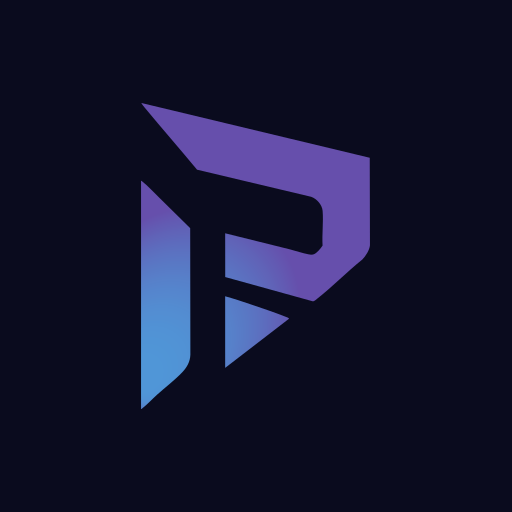
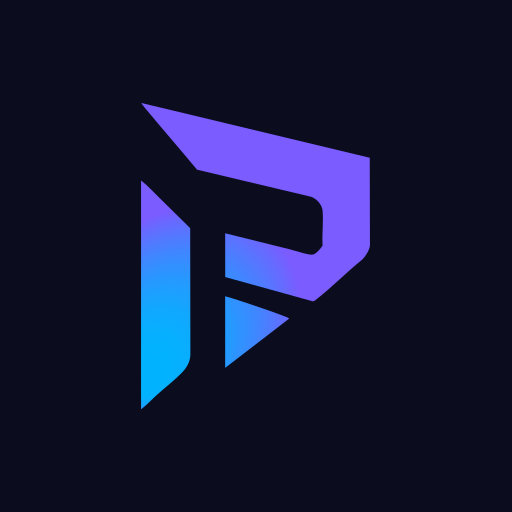
تصحيح ألوان حرف P وأيقونات التطبيق بقيم الهوية للشاشة

Changed region(s): [[0.2812, 0.1875, 0.75, 0.7188], [0.25, 0.3438, 0.375, 0.8125]]

diff --git a/assets/brand/_compare.html b/assets/brand/_compare.html
@@ -1,7 +1,7 @@
 <!doctype html>
 <html lang="ar" dir="rtl"><meta charset="utf-8"><meta name="viewport" content="width=device-width,initial-scale=1"><title>مقارنة هوية بروكي الأصلية والمتجهة</title><style>
-:root{--c-bg:#0A0B1E;--c-surface-1:#12142E;--c-text:#F4F5FF;--c-text-2:#A9ADCF;--c-brand:#7B61FF;--c-border:rgba(255,255,255,.08);--font:Tajawal,system-ui,sans-serif;--sp-2:8px;--sp-4:16px;--sp-6:24px;--r-md:12px}*{box-sizing:border-box}body{margin:0;padding:var(--sp-4);background:var(--c-bg);color:var(--c-text);font:16px/1.7 var(--font)}main{max-width:1120px;margin:auto}h1{font-size:24px}h2{font-size:20px}p{color:var(--c-text-2)}section{margin-block:var(--sp-6);border:1px solid var(--c-border);border-radius:var(--r-md);overflow:hidden}.samples{overflow:auto}.theme{padding:var(--sp-4);background:var(--c-bg);color:var(--c-text)}.theme.light{background:#FFFFFF;color:var(--c-surface-1)}.pairs{display:flex;gap:var(--sp-6);align-items:start;width:max-content;min-width:100%}.pair{display:grid;grid-template-columns:repeat(2,var(--size));gap:var(--sp-4);direction:ltr}figure{margin:0;text-align:center}figcaption{font-size:14px;direction:rtl}.visual{display:flex;align-items:center;justify-content:center;width:var(--size);height:var(--size)}.visual img,.visual svg{display:block;width:100%;height:100%;object-fit:contain}.motif .theme:not(.light) .original{filter:brightness(0) invert(1)}.motif .light .original{filter:brightness(0)}.size{margin:0 0 var(--sp-2)}.error{color:var(--c-brand)}.brand .visual{height:auto;aspect-ratio:476/547}.mark .visual{aspect-ratio:1}.mark .visual svg{width:auto;height:56.640625%;max-width:60%}
-</style><main><h1>مقارنة هوية بروكي الأصلية والمتجهة</h1><p>الأصل والمتجه بعرض 240px على الخلفيتين، بدون استبدال ملفات الموقع. النسختان الكاملتان مستخرجتان الآن من مسارات ملف PDF الأصلي الذي أرسله المنظّم. نسخة الخلفية الفاتحة تستخدم النص الكحلي المعتمد #12142E وتدرّج P الأصلي. صور PNG السابقة بجانبهما للمقارنة التاريخية. علامة P وأيقونات التطبيق مشتقة أيضًا من ملف PDF الأصلي؛ صور أيقونة الجذر السابقة تظهر للمقارنة التاريخية.</p><p><a href="source/proki-logo.pdf" style="color:var(--c-brand)">ملف الشعار الأصلي: أربع نسخ متجهة بصيغة PDF</a></p><img id="logoImg" alt="" hidden><script src="../../js/data/brand-assets.js"></script><script>
+:root{--c-bg:#0B0D1F;--c-surface-1:#12142E;--c-text:#F4F5FF;--c-text-2:#A9ADCF;--c-brand:#7B5CFF;--c-border:rgba(255,255,255,.08);--font:Tajawal,system-ui,sans-serif;--sp-2:8px;--sp-4:16px;--sp-6:24px;--r-md:12px}*{box-sizing:border-box}body{margin:0;padding:var(--sp-4);background:var(--c-bg);color:var(--c-text);font:16px/1.7 var(--font)}main{max-width:1120px;margin:auto}h1{font-size:24px}h2{font-size:20px}p{color:var(--c-text-2)}section>h2,section>p{margin-inline:var(--sp-4)}section{margin-block:var(--sp-6);border:1px solid var(--c-border);border-radius:var(--r-md);overflow:hidden}.samples{overflow:auto}.theme{padding:var(--sp-4);background:var(--c-bg);color:var(--c-text)}.theme.light{background:#FFFFFF;color:var(--c-surface-1)}.pairs{display:flex;gap:var(--sp-6);align-items:start;width:max-content;min-width:100%}.pair{display:grid;grid-template-columns:repeat(2,var(--size));gap:var(--sp-4);direction:ltr}figure{margin:0;text-align:center}figcaption{font-size:14px;direction:rtl}.visual{display:flex;align-items:center;justify-content:center;width:var(--size);height:var(--size)}.visual img,.visual svg{display:block;width:100%;height:100%;object-fit:contain}.motif .theme:not(.light) .original{filter:brightness(0) invert(1)}.motif .light .original{filter:brightness(0)}.size{margin:0 0 var(--sp-2)}.error{color:var(--c-brand)}.brand .visual{height:auto;aspect-ratio:476/547}.mark .visual{aspect-ratio:1}.mark .visual svg{width:auto;height:56.640625%;max-width:60%}
+</style><main><h1>مقارنة هوية بروكي الأصلية والمتجهة</h1><p>المسارات من ملف الشعار الأصلي، وألوان الشاشة من قيم HEX المعتمدة في R-10: أزرق #00B4FF وبنفسجي #7B5CFF وخلفية #0B0D1F. يبقى نص الشعار الفاتح كحليًا #12142E. صور PNG السابقة للمقارنة التاريخية، وملف PDF مرجع المسارات والطباعة. قسم أيقونة التطبيق يقارن ملف الجذر الحالي بالنسخة الجديدة دون استبداله.</p><p><a href="source/proki-logo.pdf" style="color:var(--c-brand)">ملف الشعار الأصلي: أربع نسخ متجهة بصيغة PDF</a></p><img id="logoImg" alt="" hidden><script src="../../js/data/brand-assets.js"></script><script>
 let instance=0;
 async function vector(file,host){
  const response=await fetch(file);if(!response.ok)throw Error('تعذّر تحميل '+file);
@@ -18,7 +18,15 @@ async function pair(parent,source,file,size,originalClass='original'){
 }
 function section(name,cls=''){const s=document.createElement('section');s.className=cls;const h=document.createElement('h2');h.textContent=name;s.append(h);document.querySelector('main').append(s);return s;}
 function theme(s,light){const t=document.createElement('div');t.className='theme'+(light?' light':'');const h=document.createElement('h3');h.textContent=light?'الخلفية الفاتحة':'الخلفية الداكنة';const scroll=document.createElement('div');scroll.className='samples';const ps=document.createElement('div');ps.className='pairs';scroll.append(ps);t.append(h,scroll);s.append(t);return ps;}
+
+async function appIconPair(parent){
+ const p=document.createElement('div');p.className='pair';p.style.setProperty('--size','240px');
+ for(const [label,file] of [['أيقونة الجذر الحالية','../../icon-512.png'],['الأيقونة الجديدة — R-10','app-icons/icon-512.png']]){
+  const item=figure(label);const img=document.createElement('img');img.src=file;img.alt=label;item.v.append(img);p.append(item.f);
+ }
+ parent.append(p);
+}
 function fail(e){const p=document.createElement('p');p.className='error';p.textContent=e.message;document.querySelector('main').append(p);throw e;}
 
-(async()=>{for(const [name,source,file,cls] of [['الشعار الكامل',LOGO_BASE64,'proki-logo.svg','brand'],['نسخة الخلفية الفاتحة',LOGO_BASE64_LIGHT,'proki-logo-light.svg','brand light-logo'],['علامة P','../../icon-512.png','proki-mark.svg','mark']]){const s=section(name,cls);if(file==='proki-logo-light.svg'){const note=document.createElement('p');note.textContent='نسخة معتمدة للخلفية الفاتحة: الأجزاء البيضاء أصبحت كحلية #12142E، بمسارات أصلية مستخرجة من PDF، وتدرّج P الأصلي.';s.append(note);}for(const light of [false,true]){await pair(theme(s,light),source,file,240,'brand-original');}}})().catch(fail);
+(async()=>{for(const [name,source,file,cls] of [['الشعار الكامل',LOGO_BASE64,'proki-logo.svg','brand'],['نسخة الخلفية الفاتحة',LOGO_BASE64_LIGHT,'proki-logo-light.svg','brand light-logo'],['علامة P','../../icon-512.png','proki-mark.svg','mark']]){const s=section(name,cls);if(file==='proki-logo-light.svg'){const note=document.createElement('p');note.textContent='نسخة معتمدة للخلفية الفاتحة: الأجزاء البيضاء أصبحت كحلية #12142E، بمسارات PDF نفسها وتدرّج الشاشة المعتمد في R-10.';s.append(note);}for(const light of [false,true]){await pair(theme(s,light),source,file,240,'brand-original');}}const apps=section('أيقونة التطبيق: الحالية مقابل الجديدة','app-icon-comparison');for(const light of [false,true])await appIconPair(theme(apps,light));})().catch(fail);
 </script></main></html>

diff --git a/specs/reports/001-T07b.md b/specs/reports/001-T07b.md
@@ -1,0 +1,69 @@
+# تقرير 001-T07b
+**المنفّذ:** Codex · **الفرع:** `codex/001-T07b` · **PR:** سيُضاف بعد الإنشاء · **الحالة:** منجز
+
+## وش سويت
+
+نُفّذ الأمر C1، أول أمر غير منجز في `specs/agents/CODEX.md`، من آخر نسخة لفرع التكامل `claude/broki-site-summary-qvjzoi` عند SHA `1a4842034ccbf96961e1f4fc79a6511c5fae5223`. مرجع اللون هو R-10.
+
+- تصحيح ألوان تدرج P في `assets/brand/proki-mark.svg` و`proki-logo-light.svg` إلى الأزرق `#00B4FF` والبنفسجي `#7B5CFF`، مع بقاء نص الشعار الفاتح `#12142E`.
+- تحويل البنفسجي المصمت في FANTASY LEAGUE والشرطتين إلى `#7B5CFF`.
+- حفظ جميع قيم `d` وسمات المسارات الأخرى، عدا تغيير التعبئة البنفسجية المطلوب. لم تتغير هندسة التدرج أو اتجاهه أو توزيعه المكاني: النوع الشعاعي، والمركز، والبؤرة، ونصف القطر، والتحويل، وإزاحات النقاط وعددها بقيت كما هي.
+- أُعيد تلوين النقاط الوسيطة بالحفاظ على وزن مزج اللون بين طرفي التدرج السابق: إسقاط قيمة RGB على متجه اللون بين طرفيه، ثم مزج طرفي HEX الجديدين بالوزن نفسه. لم تتحول النقاط إلى توزيع خطي جديد، ولم تُحذف أو تُضف نقاط.
+- إعادة توليد أيقونات التطبيق 180 و192 و512 من العلامة المصححة، على `#0B0D1F` وبالهامش نفسه. بقيت ملفات الجذر والشعار الأبيض دون تغيير.
+- تحديث `_compare.html` بألوان R-10 ووصف مصدر ألوان الشاشة، وإضافة قسم مستقل يعرض `icon-512.png` الحالية في الجذر مقابل الجديدة على الخلفيتين الداكنة والفاتحة، بعرض 240px لكل صورة.
+- لقطة للمراجعة: [مقارنة أيقونات التطبيق](../../assets/brand/_app-icons-compare.png).
+
+### جدول الألوان قبل وبعد
+
+| الموضع | قبل، من تحويل ألوان PDF | بعد، للشاشة وفق R-10 |
+|---|---|---|
+| بداية تدرج P الزرقاء | `#5097D7` | `#00B4FF` |
+| نهاية تدرج P البنفسجية | `#664FAC` | `#7B5CFF` |
+| البنفسجي المصمت في النص والشرطتين | `#644FAC` | `#7B5CFF` |
+| نص الشعار الفاتح | `#12142E` | `#12142E`، دون تغيير |
+| خلفية أيقونات التطبيق والمعاينة الداكنة | `#0A0B1E` | `#0B0D1F` |
+| الشعار الأبيض | أبيض | دون تغيير |
+
+## الأدلة
+
+### الأحجام
+
+| الملف | الحجم بالبايت | القبول |
+|---|---:|---|
+| proki-mark.svg | 2,732 | أقل من 3,000 |
+| proki-logo-light.svg | 14,696 | أقل من 15,000 |
+| proki-logo.svg | 9,947 | مطابق لنسخة الأساس دون أي تغيير |
+| app-icons/icon-180.png | 4,387 | 180×180 |
+| app-icons/icon-192.png | 4,565 | 192×192 |
+| app-icons/icon-512.png | 14,666 | 512×512 |
+
+### سلامة الرسم والتدرج
+
+- مقارنة XML بنسخة الأساس: جميع قيم مسارات `d` متطابقة نصيًا؛ وبقية سمات المسارات متطابقة مع استثناء لون التعبئة البنفسجي المطلوب فقط.
+- سمات التدرج وإزاحات النقاط وشفافيتها وعددها متطابقة: 36 نقطة في العلامة و101 في الشعار الفاتح. طرفا التدرج مطابقان لقيم R-10.
+- رسم النسختين القديمة والجديدة بـCairoSVG بعرض 512px: طبقة ألفا متطابقة بكسليًا لكلا الملفين. الأثر تغيير ألوان فقط، دون تغيير الشكل.
+- لا image أو بيانات صور أو text أو فلاتر أو بيانات محررات أو معرّفات مكررة في SVG. لا إيموجي في المخرجات الجديدة.
+- الشعار الأبيض و`icon-512.png` في الجذر مطابقان بايتًا لنسخة الأساس.
+
+### أيقونات التطبيق والسطوع
+
+- خلفية PNG الثلاثة `#0B0D1F`، والمقاسات كما في أسمائها.
+- الهامش الأدنى: 20% لمقاس 180، و20.31% لمقاس 192، و20.12% لمقاس 512. الشكل كله داخل دائرة الأمان ذات نصف قطر 40% من المقاس.
+- متوسط الإضاءة النسبية داخل رسم P في أيقونة الجذر الحالية نحو 0.189294، وفي أيقونة 512 الجديدة نحو 0.236102؛ زيادة تقارب 24.73%. حُسبت بعد تحويل sRGB إلى ضوء خطي بأوزان 0.2126 و0.7152 و0.0722، على بكسلات الرسم فقط بعد استبعاد الخلفية وتآكل الحافة بمقدار بكسلين. القياس متوسط للرسم، لا ادعاء أن كل بكسل أفتح من نظيره، ولا تتدخل مساحة الخلفية في المتوسط.
+- المراجعة البصرية جنبًا إلى جنب تؤكد أن الجديدة زاهية على الداكن والفاتح، مع بقاء خلفيتها الكحلية المقررة للأيقونة نفسها.
+
+### الاختبارات والمعاينة
+
+- `node tests/run.js`: نُفّذت الاختبارات الثمانية ونجحت جميعًا.
+- Chromium/Playwright على عرضي 1100px و390px: صفحة المقارنة تعرض نسخ SVG الست السابقة، بالإضافة إلى زوجي PNG الجديدين على الثيمين. جميع الصور محملة، ولا أخطاء JavaScript أو طلبات فاشلة أو معرّفات مكررة أو تجاوز أفقي لعرض الصفحة خارج مناطق المقارنة.
+- خلفية الصفحة المحسوبة `rgb(11, 13, 31)`، الموافقة لـ`#0B0D1F`.
+- أدوات `tools/lint.js` و`tools/snap.js` غير موجودة في نسخة الأساس، ولم يُدّع تشغيلها.
+- النطاق: التغييرات داخل `assets/brand/` وهذا التقرير في `specs/reports/` فقط. لا تعديل لملف الأوامر أو القرارات أو بقية المواصفات، ولا لكود التطبيق.
+
+## قرارات اتخذتها خارج الأمر وليش
+
+لا قرارات هوية خارج R-10 والأمر C1. أُضيفت لقطة المقارنة داخل مجلد الأصول لتسهيل مراجعة السطوع. طريقة حساب اللون الوسيط تحقق حفظ توزيع نقاط التدرج دون تغيير هندسته أو اختراع نقاط جديدة.
+
+## أسئلة للمنظّم أو Opus
+
+لا أسئلة أو متطلبات خارجية متبقية. المطلوب مراجعة Opus للفرع والـSHA النهائي وفق R-11. لم أدمج أي PR ولم أنفّذ C3؛ الأمر يطلب تنفيذ أول أمر غير منجز فقط ثم التوقف.
